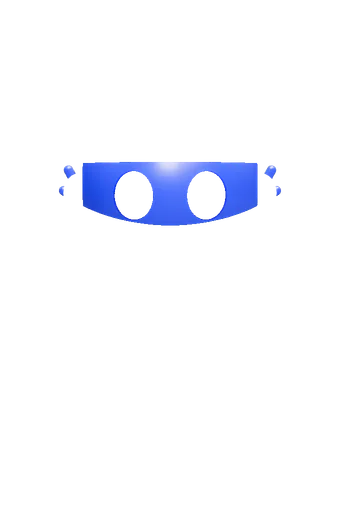
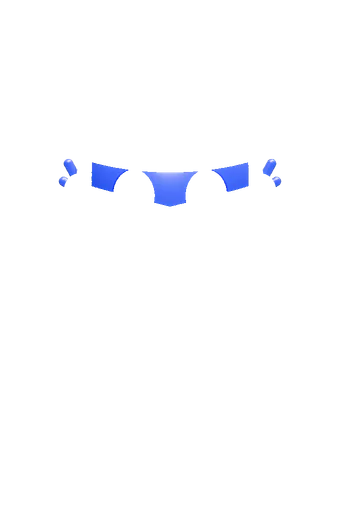
Fase 9 (arte): boné com a pala para cima, máscara fina e asinhas da fada visíveis de frente
chapeu_bone: copa mais alta e pala inclinada para cima, a borda de baixo fica acima das
sobrancelhas. acessorio_mascara: faixa fina da sobrancelha ao meio do olho, sem cobrir
bochechas. roupa_fada_tras: asinhas maiores, mais coloridas, saindo por trás dos ombros.
previa_fase7.js: folha 'rostos' para conferir chapéus, máscara e fada em vários perfis.
manifesto.json sem mudança (dimensões e âncoras iguais).

Claude-Session: https://claude.ai/code/session_012aAAaCijum6Vzd3aTTYtsU

Changed region(s): [[0.1765, 0.3077, 0.8235, 0.4615]]

diff --git a/casinha-do-saber/arte3d/src/objetos/guardaRoupa.js b/casinha-do-saber/arte3d/src/objetos/guardaRoupa.js
@@ -546,10 +546,12 @@ function trajeFada() {
   estampa.add(sobre(corpo, 0, 1.56, gema, 0.01));
   // asas de fada: duas grandes em cima, duas menores embaixo, transparentes com borda prateada
   const tras = new THREE.Group();
-  const matAsa = vidro('#e6d2ff', 0.6);
-  const matAsa2 = vidro('#ffd2ef', 0.6);
+  // saem por trás dos ombros para os lados, quase de frente para a câmera: aparecem de frente (Fase 9)
+  const matAsa = plastico('#9f6bff', { rugosidade: 0.3, verniz: 0.8, opacidade: 0.88 });
+  const matAsa2 = plastico('#ff6fc0', { rugosidade: 0.3, verniz: 0.8, opacidade: 0.88 });
+  for (const m of [matAsa, matAsa2]) { m.side = THREE.DoubleSide; m.depthWrite = false; }
   for (const lado of [-1, 1]) {
-    for (const [dy, esc, giro, mat] of [[0.28, 0.5, 0.75, matAsa], [-0.12, 0.36, 2.1, matAsa2]]) {
+    for (const [dy, esc, giro, mat] of [[0.32, 0.8, 1.65, matAsa], [-0.06, 0.56, 2.3, matAsa2]]) {
       const s = new THREE.Shape();
       s.moveTo(0, 0);
       s.bezierCurveTo(0.2, 0.25, 0.9, 0.35, 1.0, 0.0);
@@ -557,8 +559,8 @@ function trajeFada() {
       const geo = new THREE.ShapeGeometry(s, 24);
       const asa = new THREE.Mesh(geo, mat);
       asa.scale.set(lado * esc * 1.25, esc * 1.25, 1);
-      asa.position.set(lado * 0.2, 1.36 + dy * 0.6, -0.36);
-      asa.rotation.set(0, lado * 0.3, lado * (giro - 0.75) * 0.5);
+      asa.position.set(lado * 0.22, 1.36 + dy * 0.6, -0.4);
+      asa.rotation.set(0, lado * 0.12, lado * (giro - 0.75) * 0.5);
       tras.add(asa);
       const pts = s.getPoints(40).map((p) => new THREE.Vector3(p.x, p.y, 0));
       const borda = malha(new THREE.TubeGeometry(new THREE.CatmullRomCurve3(pts, true), 80, 0.02, 8, true), plastico('#f4f0ff', { rugosidade: 0.2, verniz: 1 }));
@@ -1190,11 +1192,13 @@ function mascara() {
       const ph = phi0 + (i / cv.width) * dPhi;
       const x = -Math.cos(ph) * Math.sin(th), y = Math.cos(th);
       const ax = Math.abs(x);
-      const yc = -0.03 + 0.1 * ax * ax;
-      const h = 0.3 - 0.12 * ax * ax;
-      let dentro = ax < 0.86 && Math.abs(y - yc) < h;
+      // faixa fina (Fase 9): da sobrancelha até o meio do olho, desce só no meio (sobre o nariz) e sobe nas
+      // pontas, sem chegar às bochechas
+      const topo = 0.17 + 0.16 * ax * ax;
+      const base = -0.15 + 0.24 * ax;
+      let dentro = ax < 0.76 && y < topo && y > base;
       for (const lado of [-1, 1]) {
-        const dx = (x - lado * OLHO_X) / 0.19, dy = (y - (OLHO_Y - 0.01)) / 0.235;
+        const dx = (x - lado * OLHO_X) / 0.205, dy = (y - (OLHO_Y - 0.01)) / 0.25;
         if (dx * dx + dy * dy < 1) dentro = false;
       }
       const k = (j * cv.width + i) * 4;
@@ -1214,7 +1218,7 @@ function mascara() {
   g.add(m2);
   // fitinhas amarradas atrás (aparecem dos lados)
   for (const lado of [-1, 1]) {
-    for (const [dy, giro] of [[0.05, -0.5], [-0.12, -1.0]]) {
+    for (const [dy, giro] of [[0.12, -0.5], [-0.02, -1.0]]) {
       const f = capsula(R * 0.05, R * 0.3, brilho('#3052d8'));
       f.scale.set(1, 1, 0.4);
       f.rotation.z = lado * giro;
@@ -1592,12 +1596,13 @@ function bone() {
   const copa = new THREE.Group();
   copa.add(malha(new THREE.SphereGeometry(R * 1.1, 64, 32, 0, Math.PI * 2, 0, Math.PI * 0.5), azul));
   const pala = new THREE.Shape();
-  pala.absellipse(0, 0, R * 0.78, R * 0.62, 0, Math.PI, false, 0);
+  pala.absellipse(0, 0, R * 0.8, R * 0.7, 0, Math.PI, false, 0);
   const geo = new THREE.ExtrudeGeometry(pala, { depth: R * 0.04, bevelEnabled: true, bevelThickness: R * 0.02, bevelSize: R * 0.02, bevelSegments: 3, curveSegments: 32 });
   geo.rotateX(Math.PI / 2);
   const p = malha(geo, amarelo);
-  p.position.set(0, R * 0.02, R * 0.72);
-  p.rotation.x = 0.8;
+  // pala para cima (Fase 9): a borda de baixo fica acima das sobrancelhas, os olhos aparecem
+  p.position.set(0, R * 0.05, R * 0.74);
+  p.rotation.x = -0.2;
   copa.add(p);
   copa.add(em(bola(R * 0.1, amarelo, 16), 0, R * 1.1, 0));
   // faixas da copa
@@ -1610,8 +1615,8 @@ function bone() {
   const e = estrela3D(R * 0.17, R * 0.05, brilho('#ffffff'));
   naSuperficie(e, R * 1.1, 0, R * 0.42, R * 0.01);
   copa.add(e);
-  copa.rotation.x = -0.35;
-  copa.position.y = R * 0.06;
+  copa.rotation.x = -0.42;
+  copa.position.y = R * 0.16;
   g.add(copa);
   return naCabeca(g);
 }

diff --git a/casinha-do-saber/arte3d/previa_fase7.js b/casinha-do-saber/arte3d/previa_fase7.js
@@ -106,6 +106,13 @@ const FOLHAS = {
     { titulo: 'chuva, mochila', perfil: P(true, 1, 1, 0, 5), pose: { bracos: 'tchau2' }, vestir: { traje: 'chuva', COSTAS: 'mochila' } },
     { titulo: 'sem traje: asas, tiara, sol', perfil: P(true, 0, 2, 1, 1), pose: { humor: 'feliz', bracos: 'parado' }, vestir: { COSTAS: 'asas', CABELO: 'tiara', ROSTO: 'oculosdesol', PESCOCO: 'cachecol' } },
   ],
+  // conferência do rosto: cada linha uma peça em menino e menina, pele clara e escura, cabelo espetado e cacheado
+  rostos: [
+    ['boné', { chapeu: 'bone' }], ['coroa', { chapeu: 'coroa' }], ['cartola', { chapeu: 'cartola' }], ['flor', { chapeu: 'flor' }],
+    ['máscara', { ROSTO: 'mascara' }], ['fada', { traje: 'fada' }],
+  ].flatMap(([nome, vestir]) => [
+    P(false, 0, 2, 2, 0), P(false, 3, 1, 1, 2), P(true, 0, 3, 1, 4), P(true, 3, 0, 1, 1), P(true, 2, 1, 2, 5), P(false, 1, 0, 0, 3),
+  ].map((perfil, i) => ({ titulo: nome, perfil, pose: i % 3 === 2 ? { humor: 'torcendo', bracos: 'torcendo' } : {}, vestir }))),
 };
 
 async function main() {
